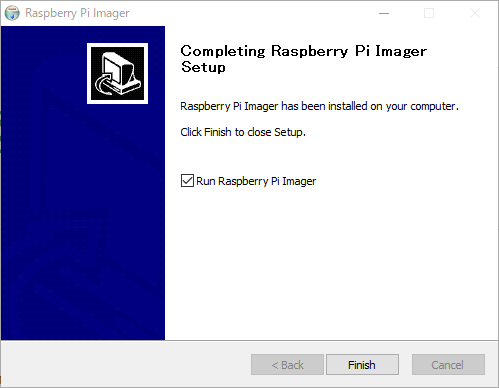
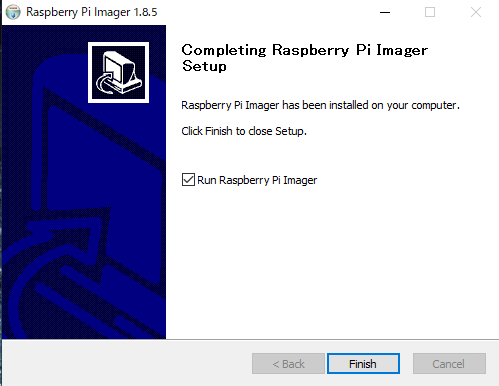
for Pi Imager 1.8.5

diff --git a/install/README.md b/install/README.md
@@ -1,9 +1,9 @@
 # Raspberry Pi OSの設定
 
-Rapberry Pi用のOSである Raspberry Pi OS(Rasbian)の設定について説明します。  
-Raspberry Pi本体は'Raspberry Pi3 ModelB'、
-Raspberry Pi Imagerは、'Raspberry Pi Imager 1.6.2'、
-OSは'Raspberry Pi OS Version 2021-03-04'で説明します。
+Rapberry Pi用のOSである Raspberry Pi OS(旧Rasbian※)の設定について説明します。  
+Raspberry Pi本体は'Raspberry Pi4 ModelB'、
+Raspberry Pi Imagerは、'Raspberry Pi Imager 1.8.5'、
+OSは'Raspberry Pi OS Version 2024-03-07'で説明します。
 ※2020年5月に名称が「Rasbian」から「Raspberry Pi OS」に変更されました。
 
 ## Raspberry Pi OSのインストール  
@@ -32,76 +32,60 @@ Raspberry Pi OSはexFATに対応していませんので、別のツールを使
 
 3-1. Raspberry Pi Imagerが起動すると以下の画面が表示されます。
 
-   ![01](./img/osInstall-01.png)  
+  ![01](./img/osInstall-01.png)  
 
-3-2. [CHOOSE OS]をクリックして[Raspberry Pi OS (32-bit)]を選択します。
+3-2. [デバイスを選択]をクリックしてRaspberry Pi デバイスを選択します。
 
-   ![02](./img/osInstall-02.png) 
+  ![02](./img/osInstall-02.png) 
 
-3-3. [CHOOSE SD CARD]をクリックして、書き込み先のデバイス（SD Card）を選択します。
- 
+3-3. [OSを選択]をクリックして[Raspberry Pi OS (64-bit)]を選択します。
+
   ![03](./img/osInstall-03.png) 
-
-3-4. [WRITE] をクリックします。
-
   ![04](./img/osInstall-04.png) 
 
-3-5. 確認ダイアログ画面で [YES]を選択して、SD Cardへの書き込みを開始します。
-
+3-4. [ストレージを選択]をクリックして、書き込み先のデバイス（SD Card）を選択します。
+ 
   ![05](./img/osInstall-05.png) 
+  ![06](./img/osInstall-06.png) 
 
-3-6. 途中、書き込みの進捗状況が表示されます。
+3-5. [次へ] をクリックします。
 
-  ![06](./img/osInstall-07.png) 
+  ![07](./img/osInstall-07.png) 
+
+3-6. OSのカスタマイズ設定を変更が不要であれば、[いいえ] をクリックします。
+
+  ![08](./img/osInstall-08.png) 
+
+3-7. 確認ダイアログ画面で [はい]を選択して、SD Cardへの書き込みを開始します。
+
+  ![09](./img/osInstall-09.png) 
+
+3-8. 途中、書き込みの進捗状況が表示されます。
+
+  ![10](./img/osInstall-10.png) 
+  ![11](./img/osInstall-11.png) 
+  ![12](./img/osInstall-12.png) 
 
 3-7. 書き込みが終わると、以下の完了画面が表示されます。
-　　[CONTINUE] をクリックして、microSDカードを取り外します。
+　　[続ける] をクリックして、microSDカードを取り外します。
 
-  ![07](./img/osInstall-08.png) 
+  ![13](./img/osInstall-13.png) 
 
 ### 4. OSの起動と日本語モードの設定
 
 4-1. microSDカードをRaspberry Pi基板に接続し起動します。  
+　　最初に国情報、ユーザー名、WiFi設定等の設定画面が表示されます。
+　　必要に応じて、タイムゾーンの設定、キーボードの設定、無線LANの国設定 等の設定を行います。
+　　これらを設定後、再駆動します。
 
-  ![08](./img/osInstall-09.png) 
+  ![14](./img/osInstall-14.png) 
 
-4-2. [Preferense]-[Raspberry Pi Configuration]をクリックします。
-
-  ![09](./img/piConfig-01.jpg) 
-
-4-3. [Localisation] をクリックします。
-
-  ![10](./img/piConfig-02.jpg) 
-
-4-4. [Set Locale...] をクリックします。
-
-  ![11](./img/piConfig-03.jpg) 
-
-4-5. Language 項目で[ja(Japanese)] を
-   Character Set項目で[EUC-JP]か、[UTF-8 ]を選択します。
-   最後に[OK]クリックします。
-
-  ![12](./img/piConfig-04.jpg) 
-
-4-6. [Raspberry Pi Configuration]の画面で[OK]をクリックすると、
-　[Reboot needed] の再起動の確認が表示されるので[Yes]をクリックします。
-
-4-7. 再起動後、Raspberry Pi OSの日本語モードの画面が表示されます。
-
-4-8. [設定]-[Raspberry Pi の設定]をクリックします。
-
-   ![01](./img/i2cSetting-01.jpg)  
-
-4-9. [ローカライゼーション] をクリックします。
-
-  必要に応じて、タイムゾーンの設定、キーボードの設定、無線LANの国設定 等の設定を行います。
-
-引き続き、I2Cの設定を行います。
 
 ## I2Cの有効設定  
 
 ### [Raspberry Pi の設定]の[インターフェース]で"I2C"を有効にします。
 
-   ![02](./img/i2cSetting-02.jpg)  
+   ![15](./img/piConfig-01.png)  
+   ![16](./img/i2cSetting-01.png)  
 
 設定を反映させるため、OSを再起動すれば、Raspberry Pi OS のインストールと設定は完了です。
